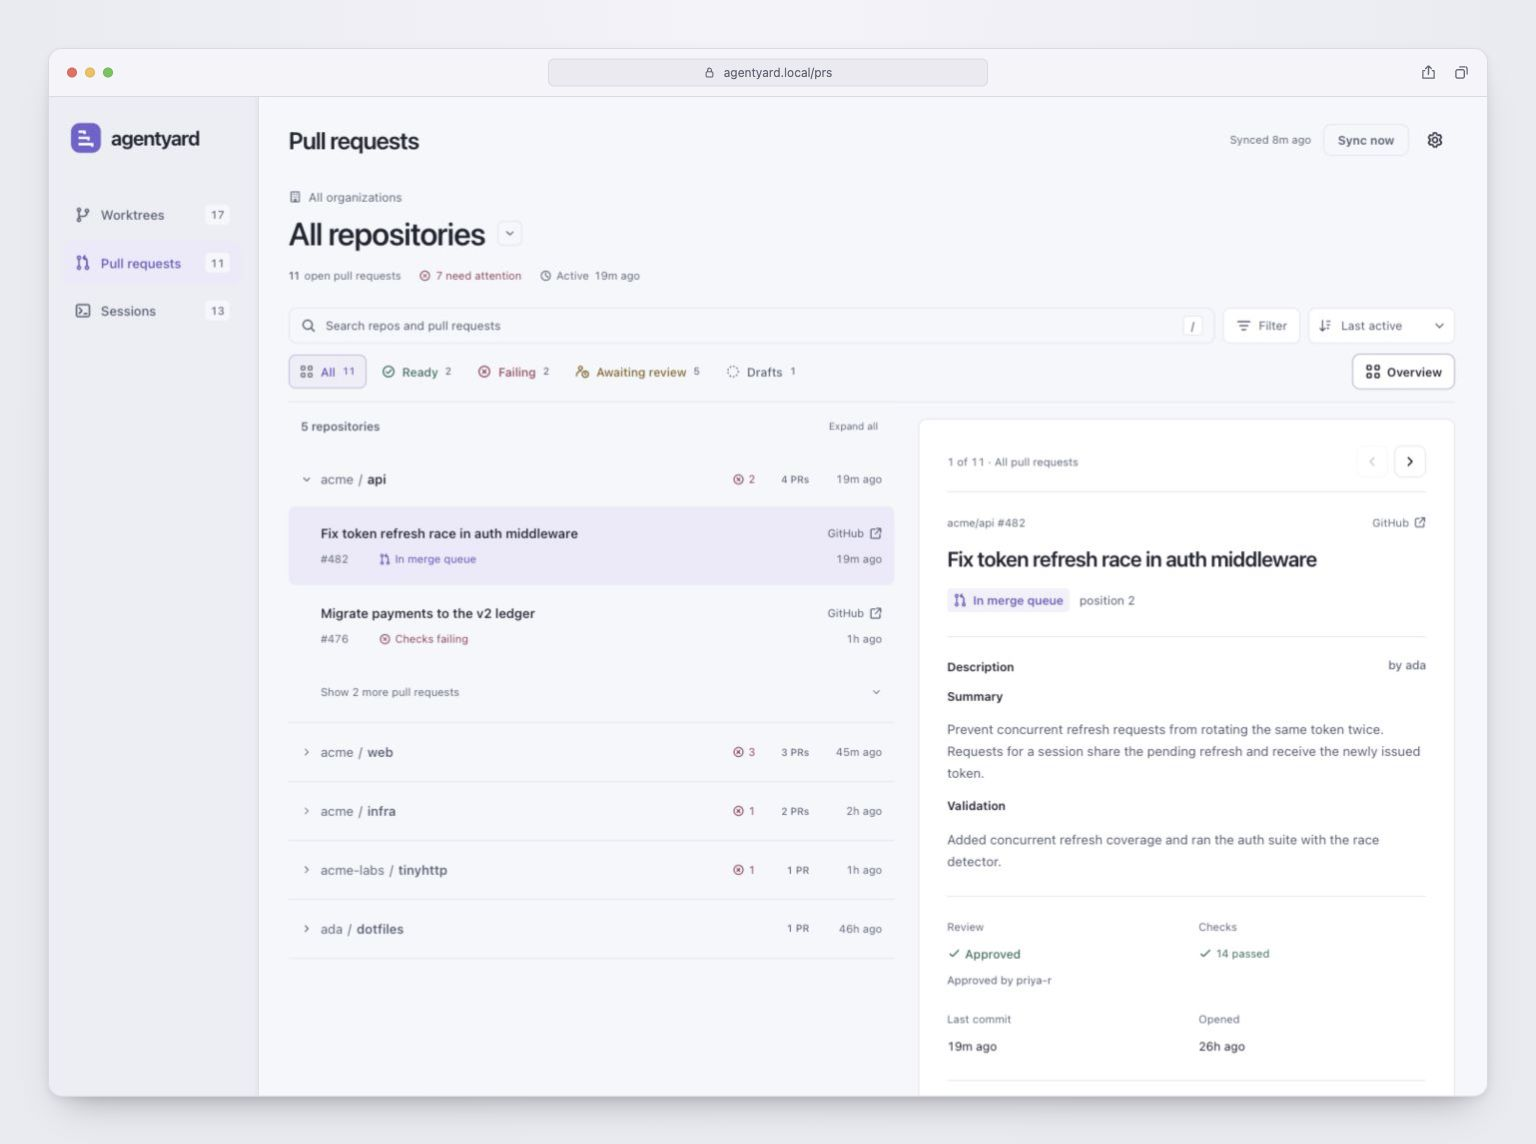
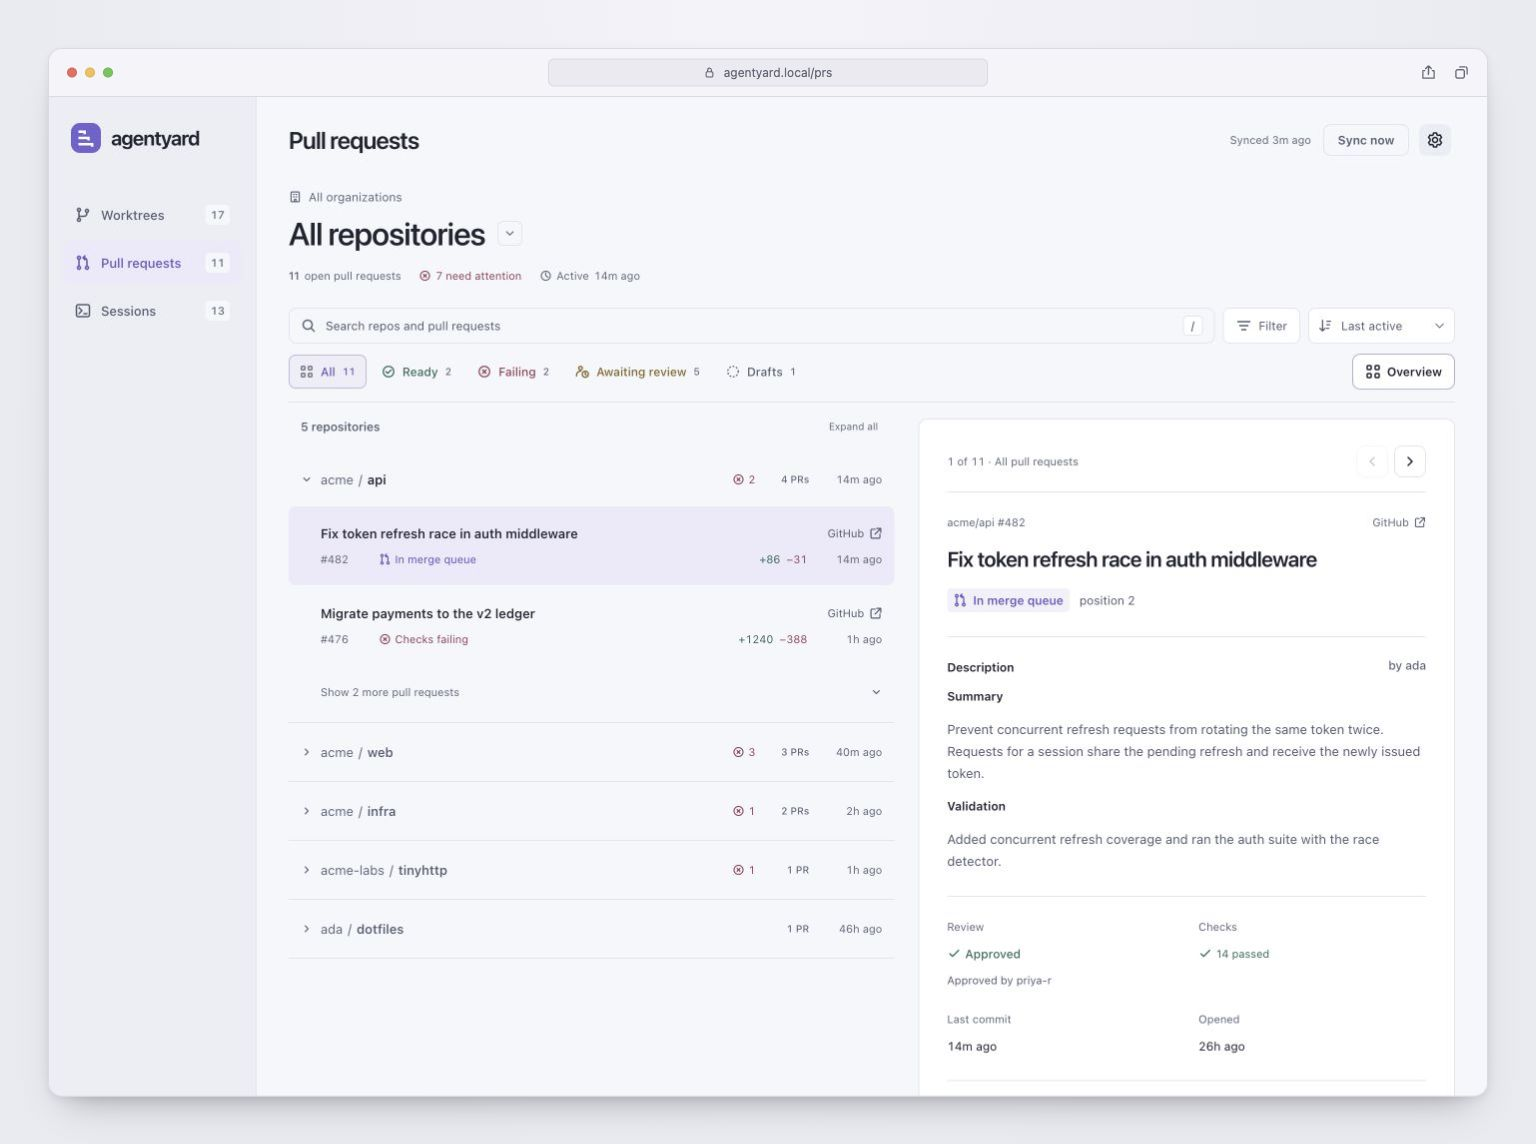
feat(prs): show card line counts for v0.4.1

Changed region(s): [[0.9062, 0.3059, 0.9375, 0.3365], [0.625, 0.5813, 0.6562, 0.6119]]

diff --git a/page.html b/page.html
@@ -766,7 +766,7 @@ body[data-tab="prs"] .collection-views > .button { margin-left:auto; font-size:1
  .pr-reader-nav .icon-button { width:40px; height:40px; }
 }
 .pr-inbox { --pr-sticky-top:16px; display:grid; grid-template-columns:minmax(320px,1.06fr) minmax(0,.94fr); align-items:start; gap:24px; }
-.pr-list { --pr-indent:12px; --pr-edge:12px; --pr-glyph:12px; --pr-gap:8px; --pr-content-start:calc(var(--pr-indent) + var(--pr-glyph) + var(--pr-gap)); align-self:stretch; min-width:0; padding-bottom:12px; }
+.pr-list { --pr-indent:12px; --pr-edge:12px; --pr-glyph:12px; --pr-gap:8px; --pr-content-start:calc(var(--pr-indent) + var(--pr-glyph) + var(--pr-gap)); container-type:inline-size; align-self:stretch; min-width:0; padding-bottom:12px; }
 .pr-list :is(button,a) { scroll-margin-top:104px; scroll-margin-bottom:16px; }
 .pr-list :is(.pr-group-toggle,.pr-group-more,.pr-select) { border-radius:7px; }
 .pr-list-heading { position:sticky; top:0; z-index:2; display:flex; justify-content:space-between; align-items:center; gap:8px; min-height:48px; padding:10px 12px; background:var(--bg-canvas); }
@@ -804,11 +804,17 @@ body[data-tab="prs"] .collection-views > .button { margin-left:auto; font-size:1
 .pr-select[aria-pressed="true"] { background:var(--bg-selected); }
 .pr-select:focus-visible { outline-offset:-3px; }
 .pr-item-title { display:-webkit-box; -webkit-line-clamp:2; -webkit-box-orient:vertical; overflow:hidden; margin:0 0 7px; padding-right:74px; color:var(--text-1); font-size:13px; line-height:20px; font-weight:550; }
-.pr-item-meta { display:grid; grid-template-columns:7ch minmax(0,1fr) auto; align-items:center; gap:10px; color:var(--text-3); font-size:11px; line-height:18px; }
+.pr-item-meta { display:grid; grid-template-columns:7ch minmax(0,1fr) auto 65px; align-items:center; gap:10px; color:var(--text-3); font-size:11px; line-height:18px; }
+.pr-item-meta .diff { flex-wrap:nowrap; font-size:inherit; justify-self:end; }
 .pr-item-meta .badge { min-width:0; background:none; min-height:18px; font-size:11px; line-height:18px; font-weight:400; }
 .pr-item-meta .badge .icon { flex-shrink:0; width:12px; height:12px; margin-top:3px; }
 .pr-item-meta .badge > span { overflow:hidden; text-overflow:ellipsis; white-space:nowrap; }
 .pr-item-meta time { justify-self:end; white-space:nowrap; }
+@container (max-width:460px) {
+ .pr-item-meta { grid-template-columns:7ch minmax(0,1fr) auto; gap:3px 10px; }
+ .pr-item-meta .diff { grid-column:2 / 4; grid-row:2; justify-self:start; }
+ .pr-item-meta time { grid-column:3; grid-row:1; }
+}
 .pr-item-open { position:absolute; top:11px; right:calc(var(--pr-edge) - 5px); display:inline-flex; align-items:center; justify-content:flex-end; gap:5px; min-height:32px; padding:4px 5px; border-radius:5px; color:var(--text-2); font-size:11px; line-height:20px; text-decoration:none; }
 .pr-item-open .icon { width:13px; height:13px; }
 .pr-item-open:hover { background:var(--bg-hover); color:var(--accent); text-decoration:none; }
@@ -1054,10 +1060,10 @@ body[data-tab="prs"] .collection-views > .button { margin-left:auto; font-size:1
 {{define "checks"}}{{with .Checks}}<div class="pr-check-counts">{{if or .Passed .Failed .Pending}}{{if .Failed}}<span class="evidence ink tone-bad">{{template "icon" "x-circle"}}{{.Failed}} failed</span>{{end}}{{if .Pending}}<span class="evidence ink tone-warn">{{template "icon" "clock"}}{{.Pending}} pending</span>{{end}}<span class="evidence ink tone-ok">{{template "icon" "check"}}{{.Passed}} passed</span>{{else}}<span class="meta">No checks reported</span>{{end}}</div>{{end}}{{end}}
 {{define "pr-check-failures"}}{{with .Checks.Failing}}<details class="pr-check-details"><summary>Failed checks <span class="numeric">{{len .}}</span></summary><ul class="pr-check-names">{{range .}}<li>{{.}}</li>{{end}}</ul></details>{{end}}{{end}}
 {{define "review"}}{{template "status" (dict "State" (reviewLabel .ReviewDecision) "Compact" true)}}{{with .Approvers}}<div class="review-names">Approved by {{join . ", "}}</div>{{end}}{{with .ChangesBy}}<div class="review-names">Changes by {{join . ", "}}</div>{{end}}{{with .Waiting}}<div class="review-names">Waiting on {{join . ", "}}</div>{{end}}{{end}}
-{{define "diff"}}<span class="diff"><span class="ink tone-ok">+{{.Additions}}</span><span class="ink tone-bad">−{{.Deletions}}</span></span>{{end}}
+{{define "diff"}}<span class="diff" aria-label="{{.Additions}} lines added, {{.Deletions}} lines deleted" title="{{.Additions}} lines added, {{.Deletions}} lines deleted"><span class="ink tone-ok">+{{.Additions}}</span><span class="ink tone-bad">−{{.Deletions}}</span></span>{{end}}
 {{define "pr-data"}}data-item data-key="{{.Repo}}/{{.Number}}" data-number="{{.Number}}" data-org="{{org .Repo}}" data-repo="{{.Repo}}" data-title="{{.Title}}" data-active="{{.LastCommit.Unix}}" data-tone="{{.Tone}}" data-facet="{{join .Facets " "}}" data-state="{{.State}}" data-search="{{lowerAll .Repo .Title .Branch .Worktree .State .Why (join .Approvers " ") (join .Waiting " ") (join .ChangesBy " ") (join .Checks.Failing " ")}} {{.Number}}"{{end}}
 {{define "pr-github-action"}}<a class="{{if .Row}}pr-item-open{{else}}pr-github-link{{end}}" href="{{.PR.URL}}" target="_blank" rel="noopener noreferrer" title="Open {{.PR.Repo}} #{{.PR.Number}} on GitHub" aria-label="Open {{.PR.Repo}} pull request {{.PR.Number}} on GitHub (opens in a new tab)"><span{{if .Row}} class="pr-item-open-label"{{end}}>GitHub</span>{{template "icon" "external-link"}}</a>{{end}}
-{{define "pr-item"}}<article class="pr-item" {{template "pr-data" .}}><button type="button" class="pr-select" aria-pressed="false" aria-controls="pr-reading-panel"><span class="pr-item-title">{{.Title}}</span><span class="pr-item-meta"><span class="pr-item-number numeric">#{{.Number}}</span>{{template "status" (dict "State" .State "Tone" .Tone "Compact" true)}}{{template "time" .LastCommit}}</span></button>{{template "pr-github-action" (dict "PR" . "Row" true)}}
+{{define "pr-item"}}<article class="pr-item" {{template "pr-data" .}}><button type="button" class="pr-select" aria-pressed="false" aria-controls="pr-reading-panel"><span class="pr-item-title">{{.Title}}</span><span class="pr-item-meta"><span class="pr-item-number numeric">#{{.Number}}</span>{{template "status" (dict "State" .State "Tone" .Tone "Compact" true)}}{{template "diff" .}}{{template "time" .LastCommit}}</span></button>{{template "pr-github-action" (dict "PR" . "Row" true)}}
 <template data-pr-detail><div class="pr-detail-top"><span class="meta">{{.Repo}} <span class="numeric">#{{.Number}}</span></span>{{template "pr-github-action" (dict "PR" .)}}</div><h2 id="pr-detail-title" tabindex="-1">{{.Title}}</h2><div class="pr-detail-state">{{template "status" (dict "State" .State "Tone" .Tone)}}{{if ne .State "Checks failing"}}{{with .Why}}<p>{{.}}</p>{{end}}{{end}}</div>
 <section class="pr-detail-section pr-description-section" aria-labelledby="pr-description-heading"><h3 id="pr-description-heading">Description <span class="meta" data-pr-author></span></h3><div data-pr-remote aria-live="polite"><p class="meta">Loading description and changed files…</p></div></section>
 <dl class="pr-detail-facts"><div><dt>Review</dt><dd>{{template "review" .}}</dd></div><div><dt>Checks</dt><dd>{{template "checks" .}}</dd></div><div><dt>Last commit</dt><dd>{{template "time" .LastCommit}}</dd></div><div><dt>Opened</dt><dd>{{template "time" .CreatedAt}}</dd></div></dl>

diff --git a/CHANGELOG.md b/CHANGELOG.md
@@ -6,6 +6,12 @@ All notable changes are documented here. The format follows
 
 ## [Unreleased]
 
+## [0.4.1] - 2026-10-08
+
+### Added
+
+- Compact added/deleted line counts on pull request cards, with a second metadata line on narrow layouts.
+
 ## [0.4.0] - 2026-10-08
 
 ### Added
@@ -100,7 +106,8 @@ First public release.
 - Single zero-dependency Go binary (around 20 MB RAM); Homebrew cask, release archives for macOS and
   Linux, and `scripts/install.sh`.
 
-[Unreleased]: https://github.com/MilosMosovsky/agentyard/compare/v0.4.0...HEAD
+[Unreleased]: https://github.com/MilosMosovsky/agentyard/compare/v0.4.1...HEAD
+[0.4.1]: https://github.com/MilosMosovsky/agentyard/releases/tag/v0.4.1
 [0.4.0]: https://github.com/MilosMosovsky/agentyard/releases/tag/v0.4.0
 [0.3.0]: https://github.com/MilosMosovsky/agentyard/releases/tag/v0.3.0
 [0.2.0]: https://github.com/MilosMosovsky/agentyard/releases/tag/v0.2.0

diff --git a/README.md b/README.md
@@ -112,6 +112,8 @@ this order:
 The overview groups PRs under compact `organization / repository` headings. Counts, attention
 indicators, and the latest commit time remain visible when a repository is collapsed. Groups follow
 your activity or name sort. Expanded repositories preview two PRs; **Show more** opens the rest.
+Each PR card shows green added-line and red deleted-line counts; narrow cards place them on a second
+metadata line to keep the status readable.
 
 Select a PR to read its description, changed files, checks, reviews, branch, and linked local worktree
 in the sticky reader. The list scrolls with the page. **GitHub** links on each row and in the reader
